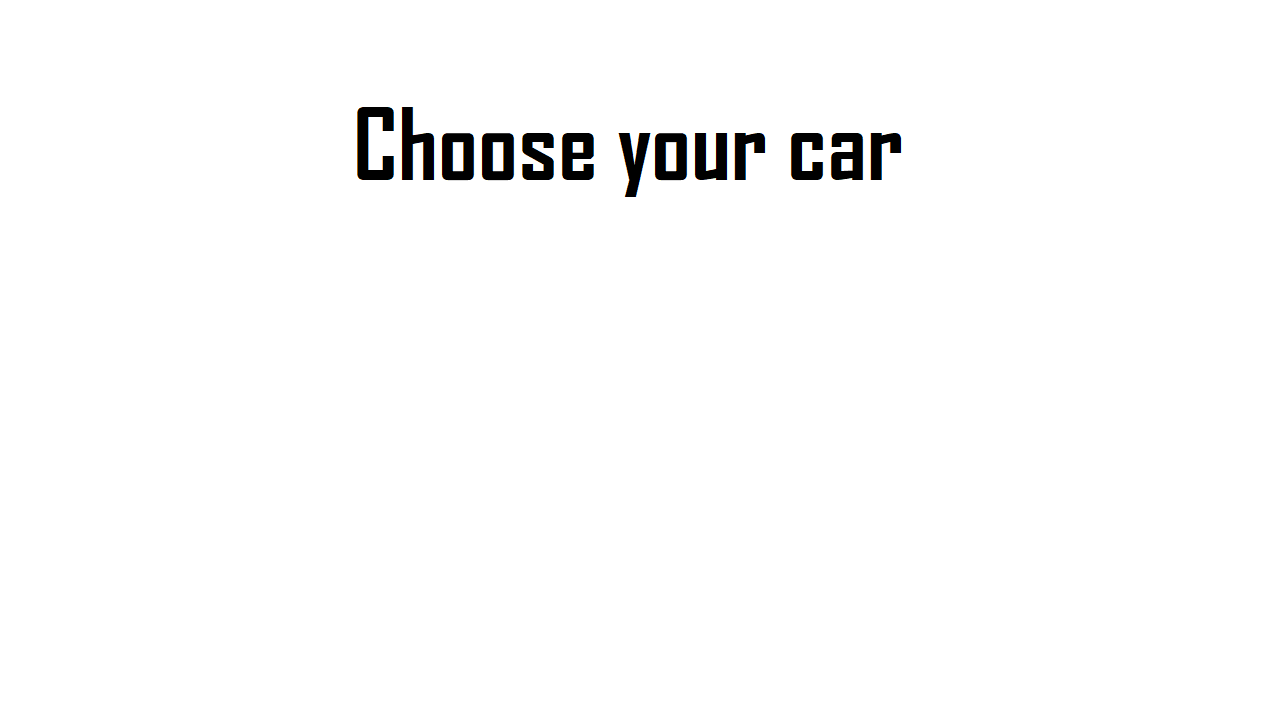
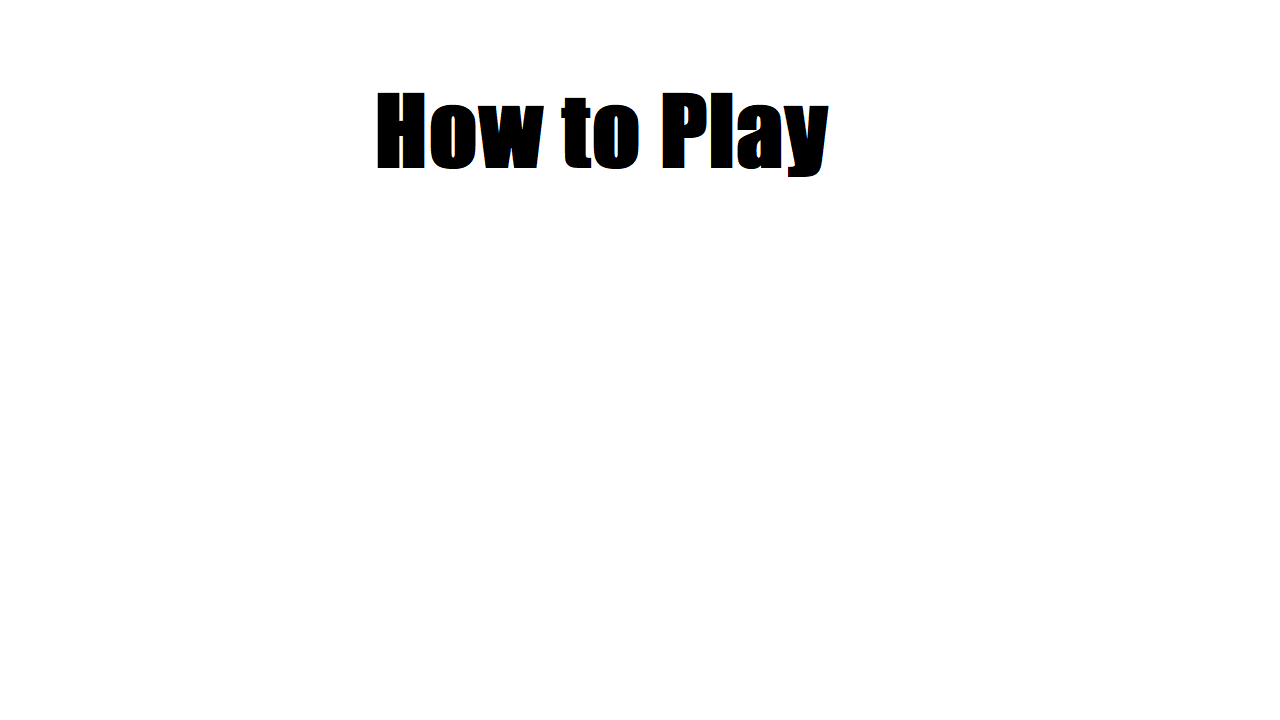
add how to play menu

Changed region(s): [[0.2812, 0.1222, 0.7188, 0.275]]

diff --git a/howToPlayMenu.cpp b/howToPlayMenu.cpp
@@ -1,0 +1,61 @@
+#include "HowToPlayMenu.h"
+#include "graphics.h"
+#include "stageManager.h"
+#include "game.h"
+
+HowToPlayMenu::HowToPlayMenu() {
+	background = Graphics::loadTexture("imgs/menu/how_to_play_menu.png");
+	srcRect = { 0, 0, SCREEN_WIDTH, SCREEN_HEIGHT };
+	destRect = { 0, 0, SCREEN_WIDTH, SCREEN_HEIGHT };
+}
+
+HowToPlayMenu::~HowToPlayMenu() {
+	SDL_DestroyTexture(background);
+}
+
+void HowToPlayMenu::init() {
+	buttonClicked = Graphics::loadSound("chunks/click_button.wav");
+	buttons.push_back(new Button("imgs/menu/back_button.png",
+		16, 16, CAR_WIDTH * 2, CAR_WIDTH * 2, "back_button"));
+}
+
+void HowToPlayMenu::mouseEvent() {
+	SDL_GetMouseState(&mouse.x, &mouse.y);
+
+	for (auto button : getButtons()) {
+		Game* game = dynamic_cast<Game*>(StageManager::stages["Game"].get());
+		if (button->isHover(mouse.x, mouse.y)) {
+			if (StageManager::event.type == SDL_MOUSEBUTTONDOWN) {
+				Graphics::play(buttonClicked);
+				std::string tag = button->getTag();
+				if (tag == "back_button") {
+					StageManager::changeStage("Menu");
+					break;
+				}
+			}
+		}
+	}
+}
+
+void HowToPlayMenu::keyEvent() {
+	switch (StageManager::event.type) {
+	case SDL_QUIT:
+		StageManager::quit();
+		break;
+	case SDL_KEYDOWN:
+		if (StageManager::event.key.keysym.sym == SDLK_ESCAPE) {
+			StageManager::changeStage("Menu");
+		}
+		break;
+	default:
+		break;
+	}
+}
+
+void HowToPlayMenu::handleEvent() {
+	SDL_PollEvent(&StageManager::event);
+	keyEvent();
+	mouseEvent();
+}
+
+void HowToPlayMenu::update() {}

diff --git a/menu.cpp b/menu.cpp
@@ -19,6 +19,7 @@ void Menu::init() {
 	buttons.push_back(new Button("imgs/menu/choose_button.png", 475, 420, 300, 100, "choose"));
 	buttons.push_back(new Button("imgs/menu/exit_button.png", 475, 600, 300, 100, "exit"));
 	buttons.push_back(new Button("imgs/menu/speaker_button.png", 1100, 50, 64, 64, "speaker"));
+	buttons.push_back(new Button("imgs/menu/turtorial_button.png", 900, 600, 300, 100, "how to play"));
 
 	buttonClicked = Graphics::loadSound("chunks/click_button.wav");
 }
@@ -53,6 +54,9 @@ void Menu::mouseEvent() {
 				}
 				else if (button->getTag() == "exit") {
 					StageManager::quit();
+				}
+				else if (button->getTag() == "how to play") {
+					StageManager::changeStage("HowToPlayMenu");
 				}
 				else if (button->getTag() == "speaker") {
 					StageManager::mute = !StageManager::mute;

diff --git a/stageManager.cpp b/stageManager.cpp
@@ -2,6 +2,7 @@
 #include "graphics.h"
 #include <iostream>
 #include "chooseMenu.h"
+#include "howToPlayMenu.h"
 #include "game.h"
 
 SDL_Event StageManager::event;
@@ -91,6 +92,7 @@ void StageManager::init() {
 	addStage("Menu", std::make_unique<Menu>());
 	addStage("ChooseMenu", std::make_unique<ChooseMenu>());
 	addStage("Game", std::make_unique<Game>());
+	addStage("HowToPlayMenu", std::make_unique<HowToPlayMenu>());
 	current_stage = stages["Menu"].get();
 
 	for (auto& s : stages) {

diff --git a/howToPlayMenu.h b/howToPlayMenu.h
@@ -1,0 +1,17 @@
+#pragma once
+#include "menu.h"
+
+class HowToPlayMenu : public Menu {
+private:
+	int scale = 3;
+
+public:
+	HowToPlayMenu();
+	~HowToPlayMenu();
+
+	void init() override;
+	void update() override;
+	void mouseEvent() override;
+	void handleEvent() override;
+	void keyEvent() override;
+};
